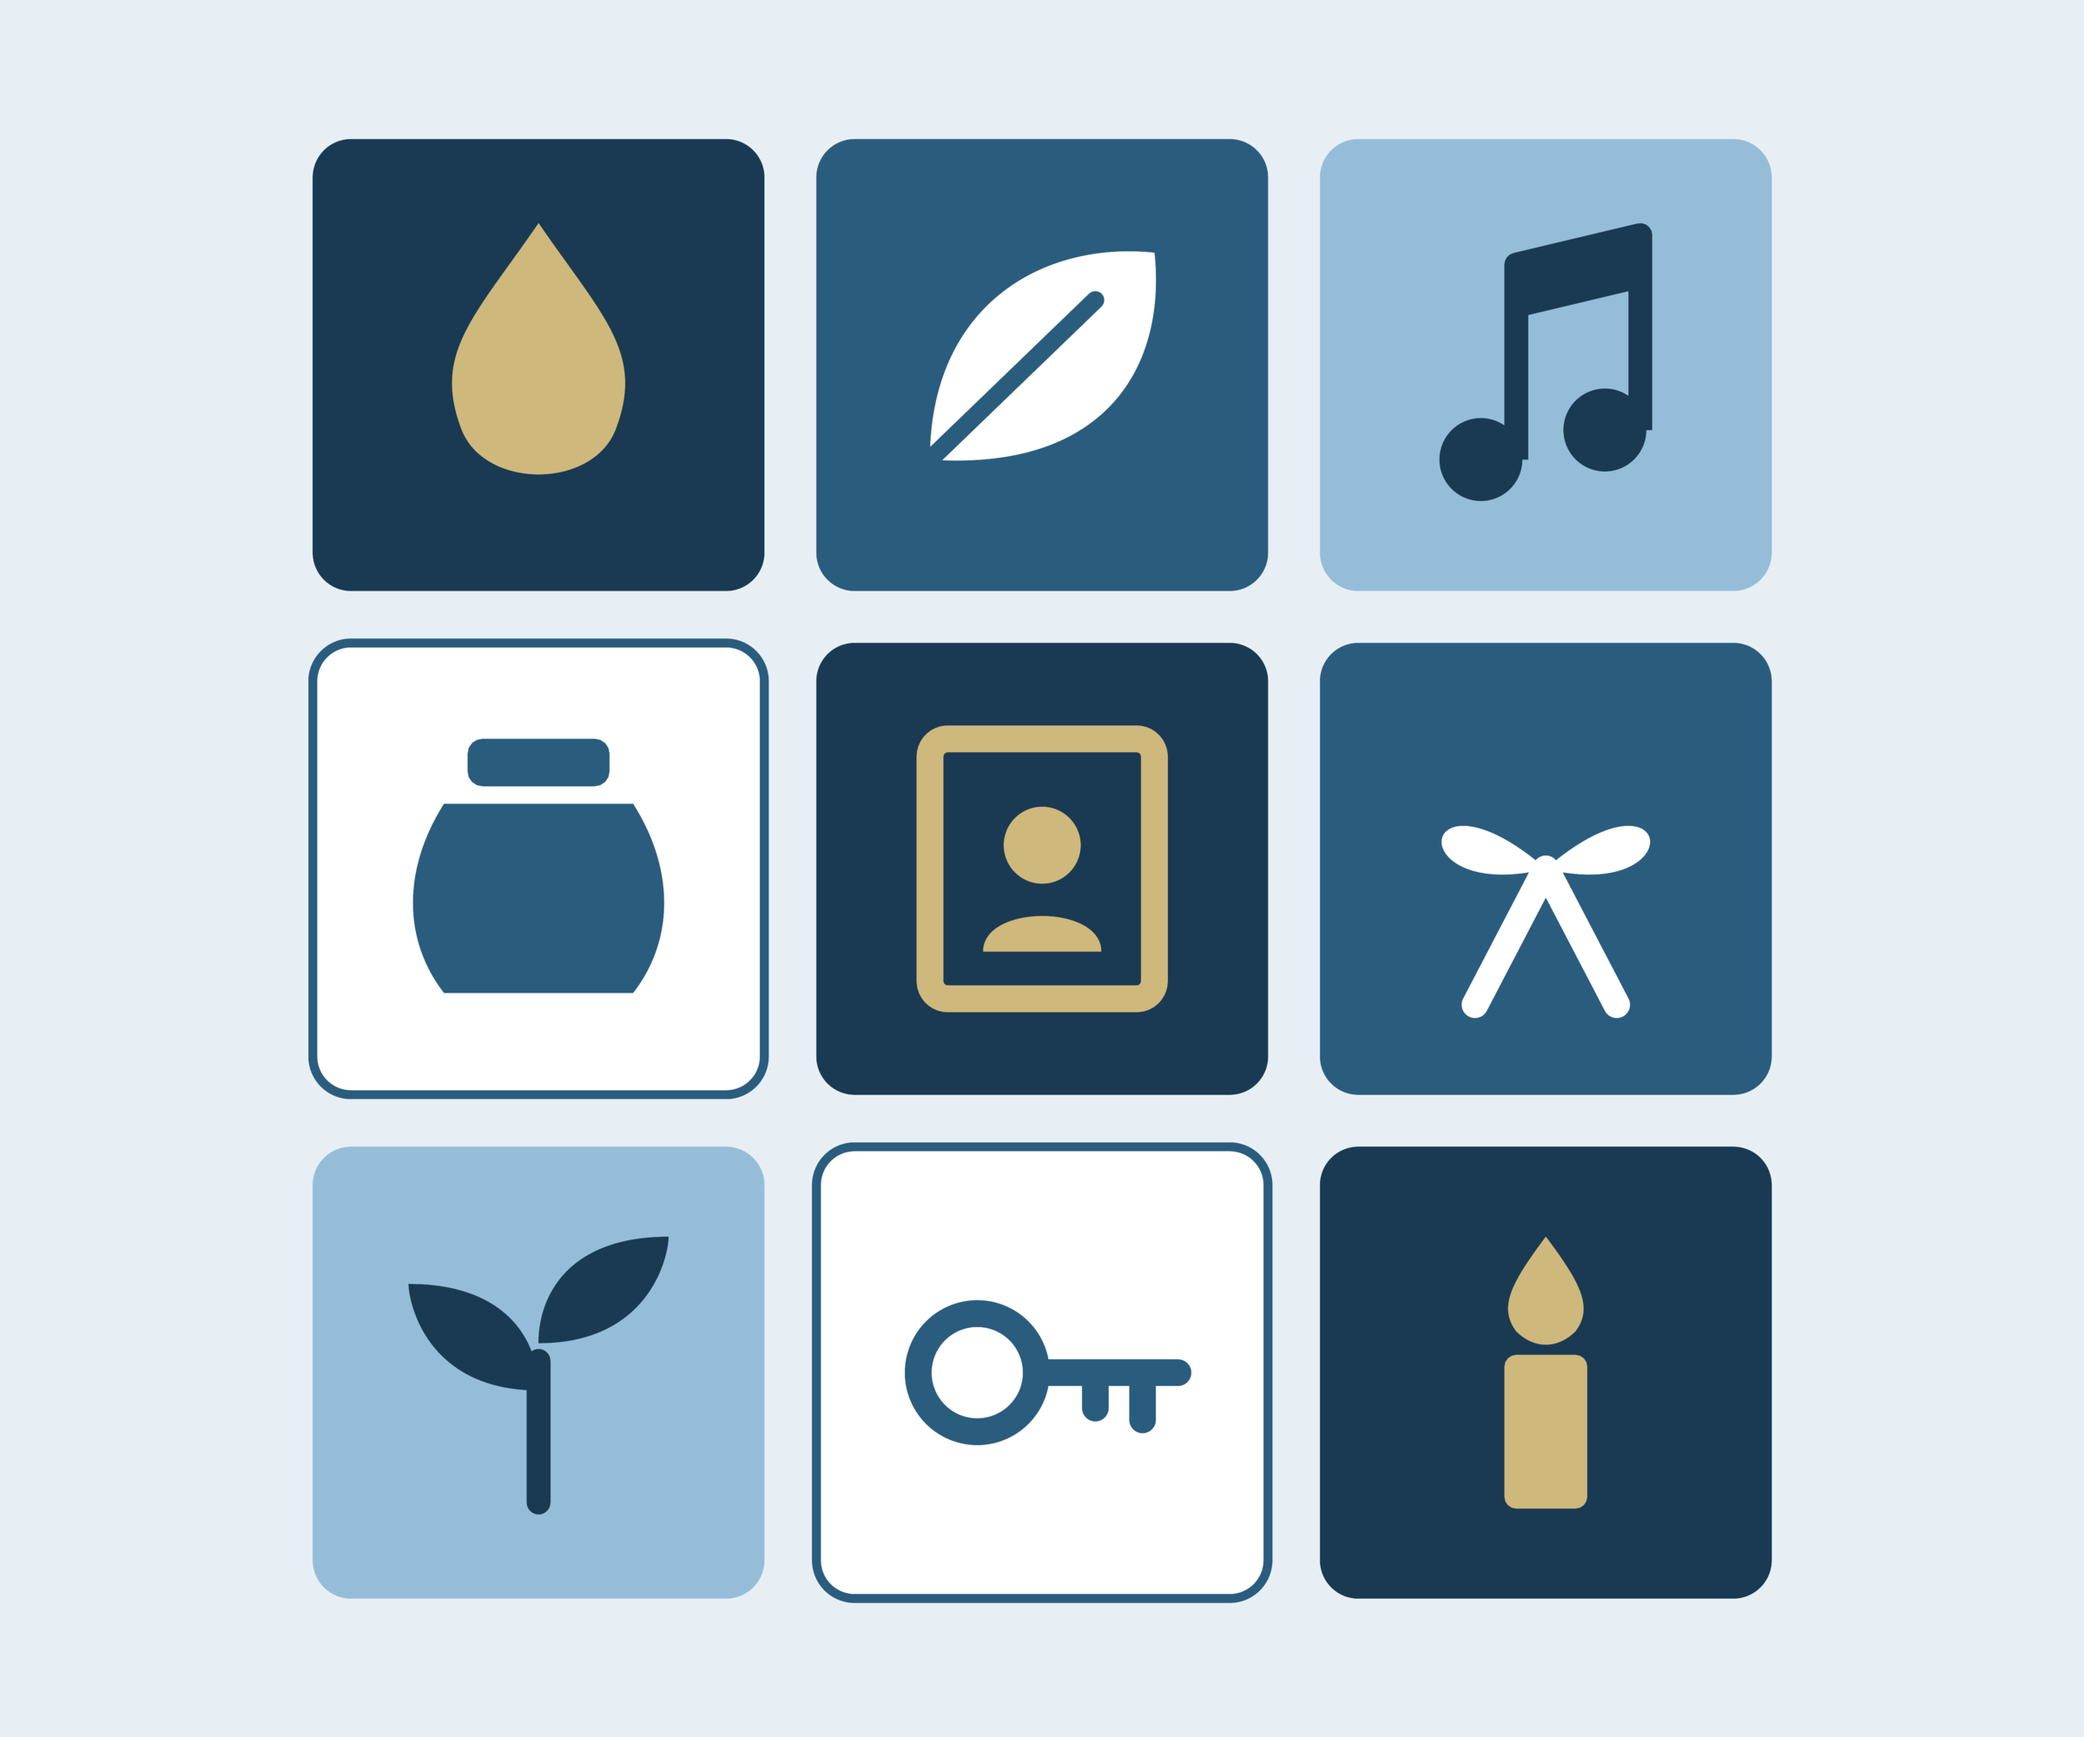
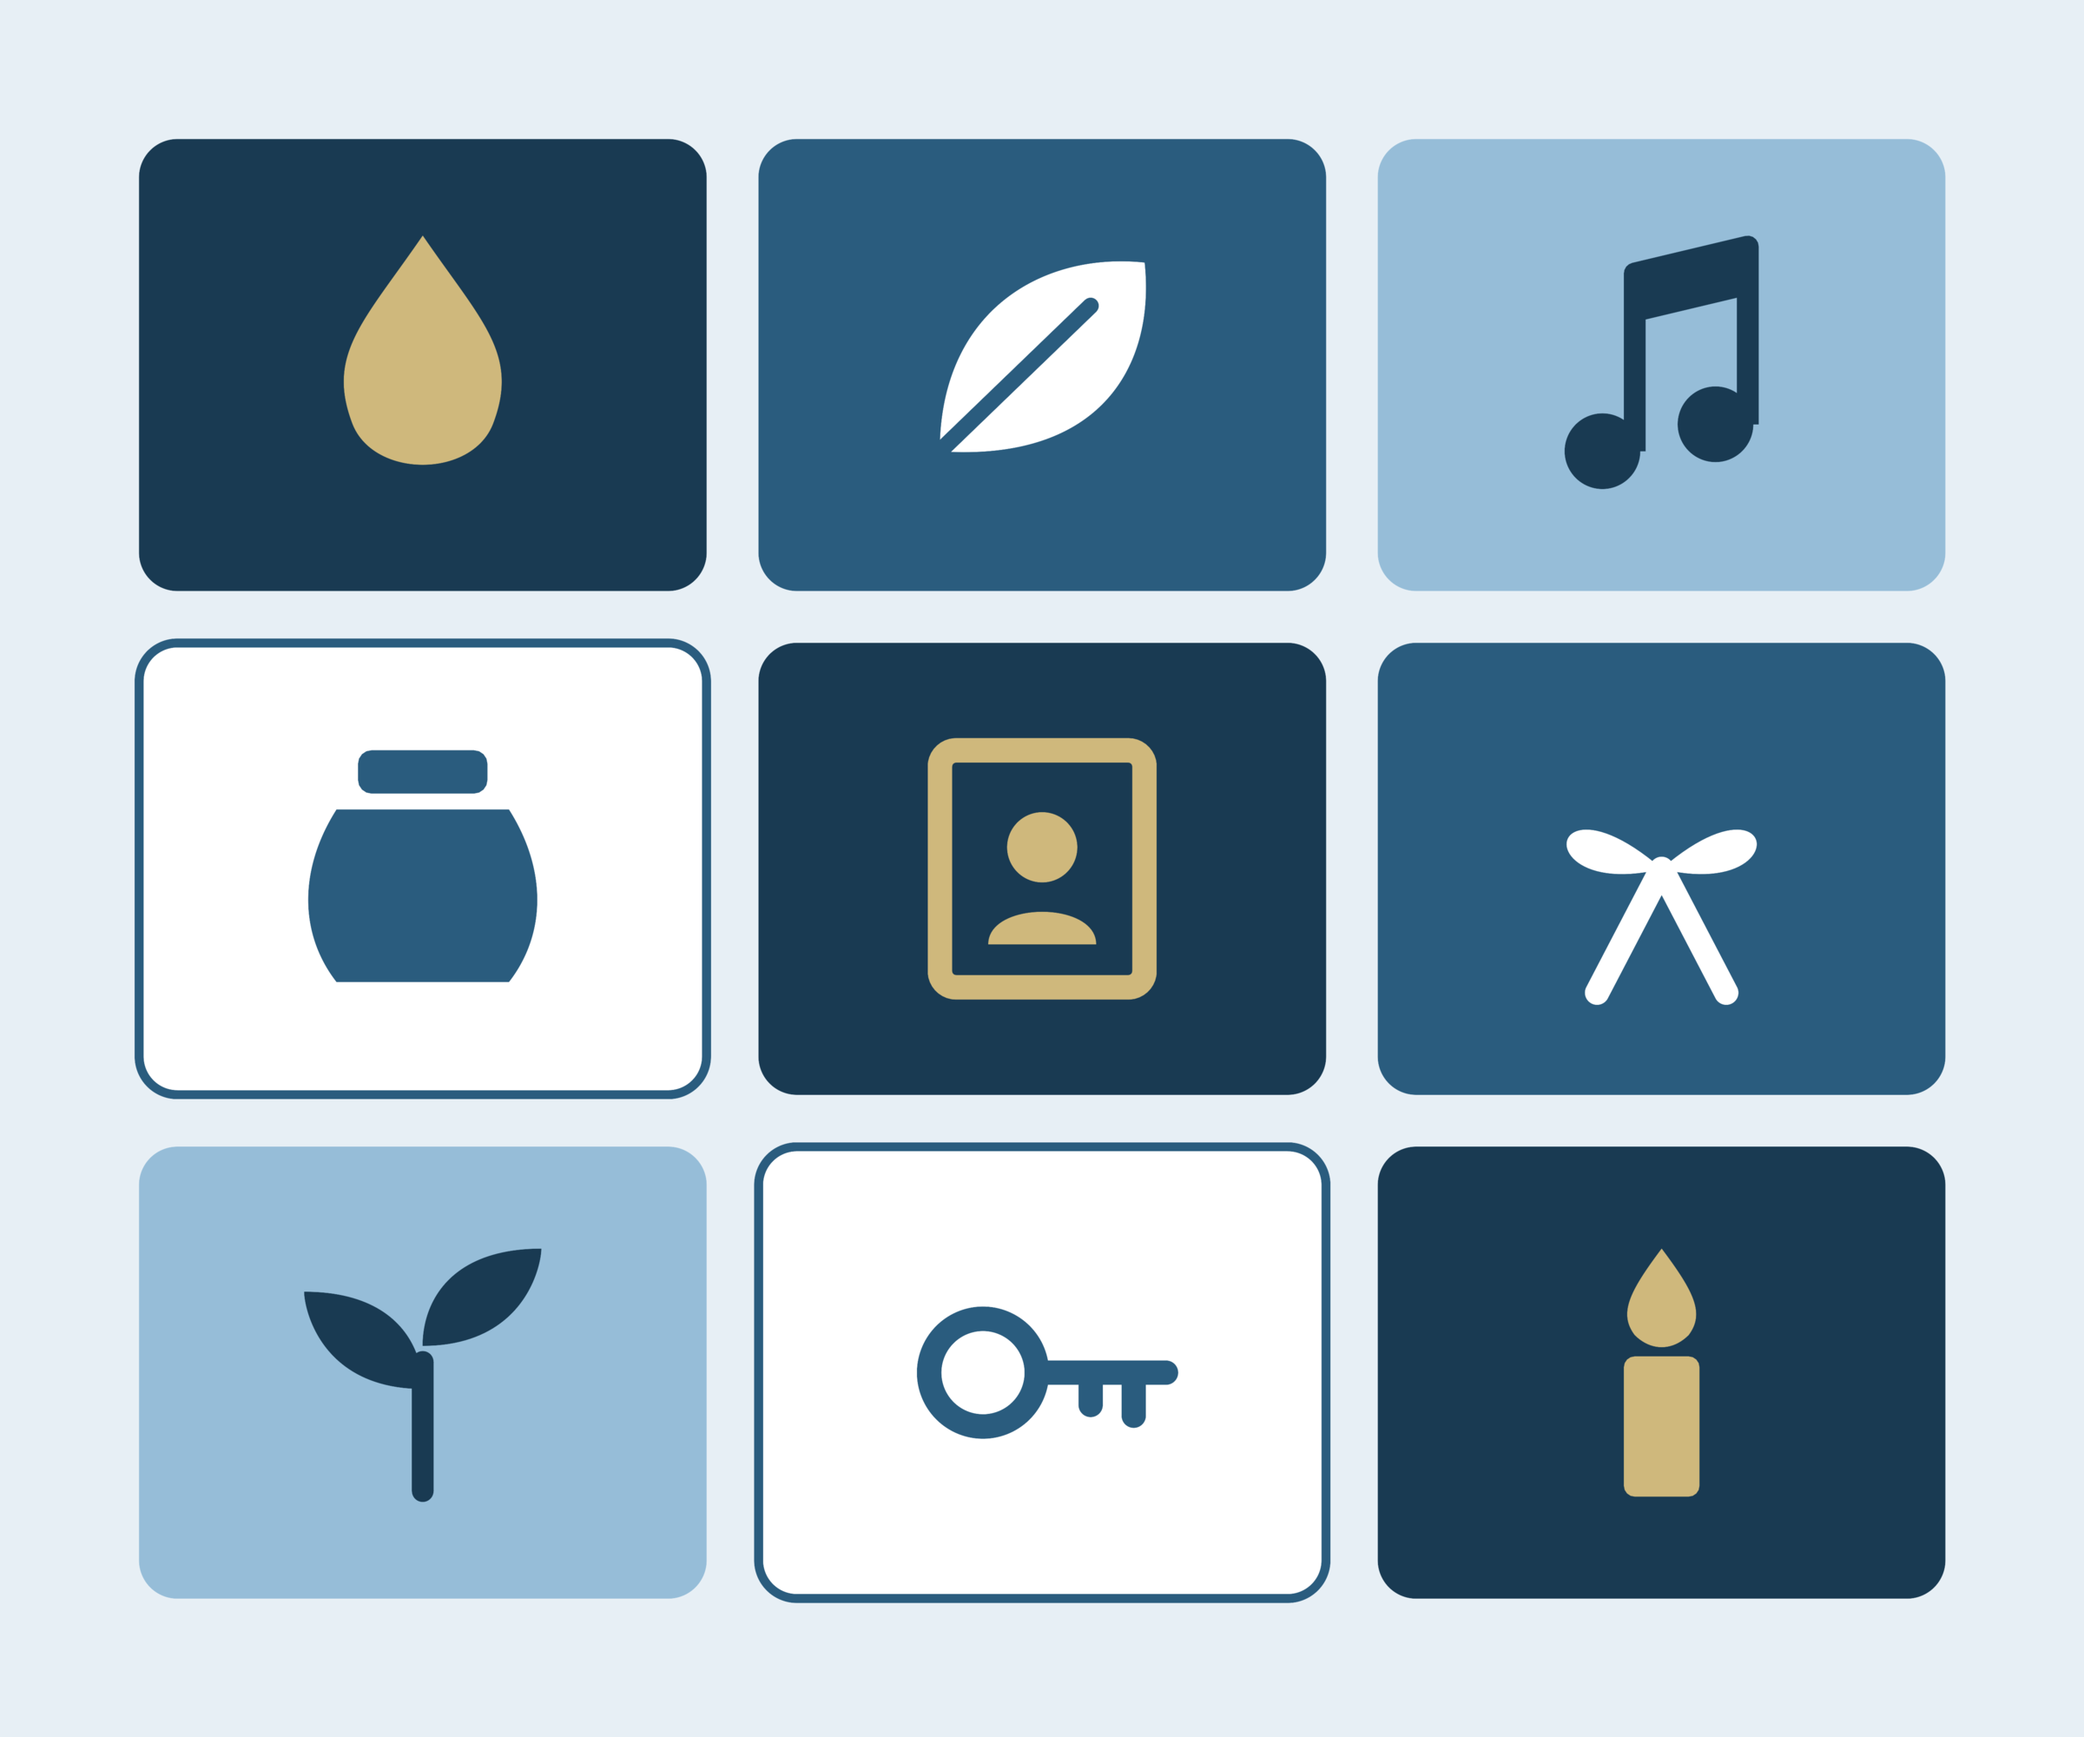
Adding DIY and Humanizing projects

diff --git a/_pages/humanizing-algorithms.md b/_pages/humanizing-algorithms.md
@@ -1,0 +1,44 @@
+---
+layout: project
+permalink: "/project/humanizing-algorithms/"
+title:  'Humanizing Algorithms'
+category: project
+image: /images/projects/humanizing-algorithms.png
+image_crop: /images/projects/humanizing-algorithms.png
+images:
+  - /images/projects/humanizing-algorithms.png
+excerpt:
+  We studied how algorithms handle sensitive social data, from upsetting encounters with content about ex-partners and the dead to the way commercial systems classify gender and race, and what human-centered design of algorithmic systems requires.
+homepage: false
+status: past
+order: 280
+---
+
+From 2018 to 2021, we studied algorithmic interaction design (AIxD): how to design systems that use algorithms and social data in a human-centered way.
+
+Platforms increasingly use algorithms to curate content from data about people's relationships, behavior, and identities. These algorithms usually optimize for metrics that are easy to calculate, such as likes, plays, and clicks, and they can only work with the social information a person has provided or the system can infer. As a result, they often miss the social context and human meaning that decide whether an interaction feels acceptable.
+
+We looked at where algorithmic and human understandings of social data diverge. Those gaps show what people expect from algorithms, how they make sense of a misfire, and what they do next. Across six studies, we asked how people navigate sensitive algorithmic encounters, how those encounters affect them, and which social concepts algorithms fail to understand. The work included a research partnership with Facebook.
+
+### Sensitive Algorithmic Encounters
+
+1. **Upsetting encounters with ex-partners.** Through 19 interviews, we studied how people experience algorithmically curated content about ex-romantic partners on Facebook. We found that encounters were made worse by the complex networks and data that create inferred connections around otherwise explicit, and often explicitly ended, relationships. We called this the "social periphery" and show how designing for it can give people agency over inferred as well as explicit connections.
+2. **Identity after a break-up.** We studied how people handle digital objects and relationships after a break-up. People acted on their possessions and connections to build a post-break-up identity, and existing tools served poorly their competing wishes to present an authentic past and a future self.
+3. **Memories and reminiscence.** We interviewed 20 people who had recently seen sensitive content through Facebook's Memories features. They wanted to see "bittersweet" content, but when it was expected, in a context that felt appropriate, and when they could make sense of why the system showed it. We recommend drawing on low-technology artifacts, identifying which contextual features harm users, and studying how users make sense of recommender systems.
+4. **Everyday evaluations of the Like button.** In interviews with 25 artists who use Instagram, we found three overlapping orientations to the Like: affective, relational, and infrastructural. The button's ambiguity pushes people toward an economic way of evaluating that crowds out other values, and shapes how artists use the platform and make art.
+
+### Algorithmic Infrastructure and Bias
+
+1. **How computers see gender.** We analyzed ten commercial facial analysis and image labeling services and evaluated five of them on a dataset of diverse genders, using images labeled by the people who posted them. The services performed worse on transgender people and could not classify non-binary genders. Bias came not only from engineering and training data but from how gender is codified in the data standards that surround the classifiers.
+2. **How databases define race and gender.** We examined how race and gender are defined and annotated in image databases used for facial analysis. Most databases rarely document the source material behind those definitions or how annotation was done, which makes them opaque and less trustworthy. We offer guidance for database authors.
+
+### Funding
+
+This work was supported by the National Science Foundation under [CRII: CHS: Humanizing Algorithms: Empirical and Design Investigations of Sensitive Algorithmic Encounters](https://www.nsf.gov/awardsearch/showAward?AWD_ID=1756028) (Award #1756028, 2018 to 2021).
+
+### Researchers
+Anthony T. Pinter, Jialun "Aaron" Jiang, Katie Z. Gach, Melanie M. Sidwell, James E. Dykes, Morgan Klaus Scheuerman, Jacob M. Paul, Kandrea Wade, Caitlin Lustig, Artie Konrad, Blake Hallinan, [Jed Brubaker](https://www.jedbrubaker.com/)
+
+### Publications
+
+{% bibliography --query @*[tags~=humanizing-algorithms] %}
